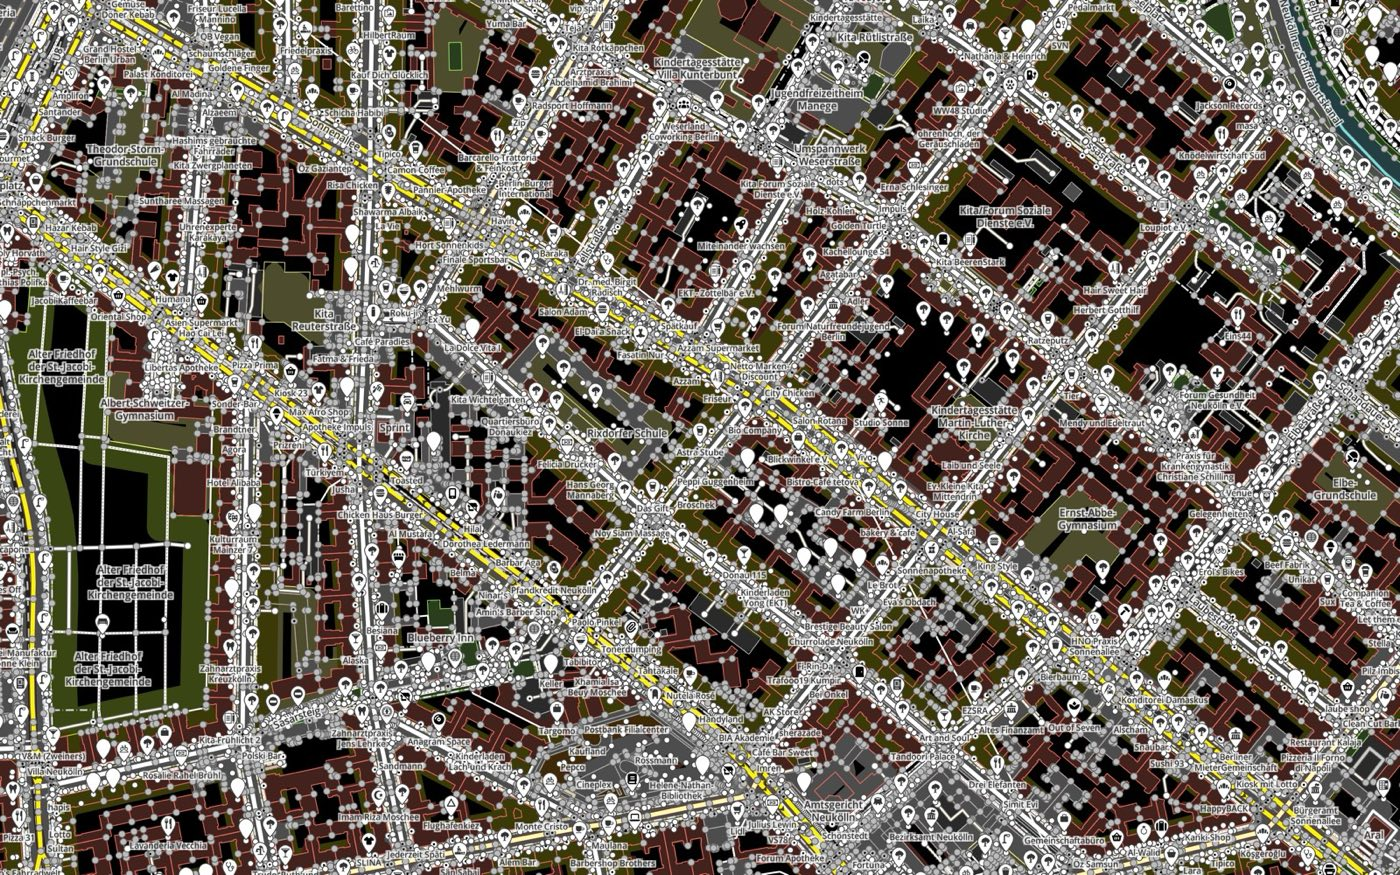
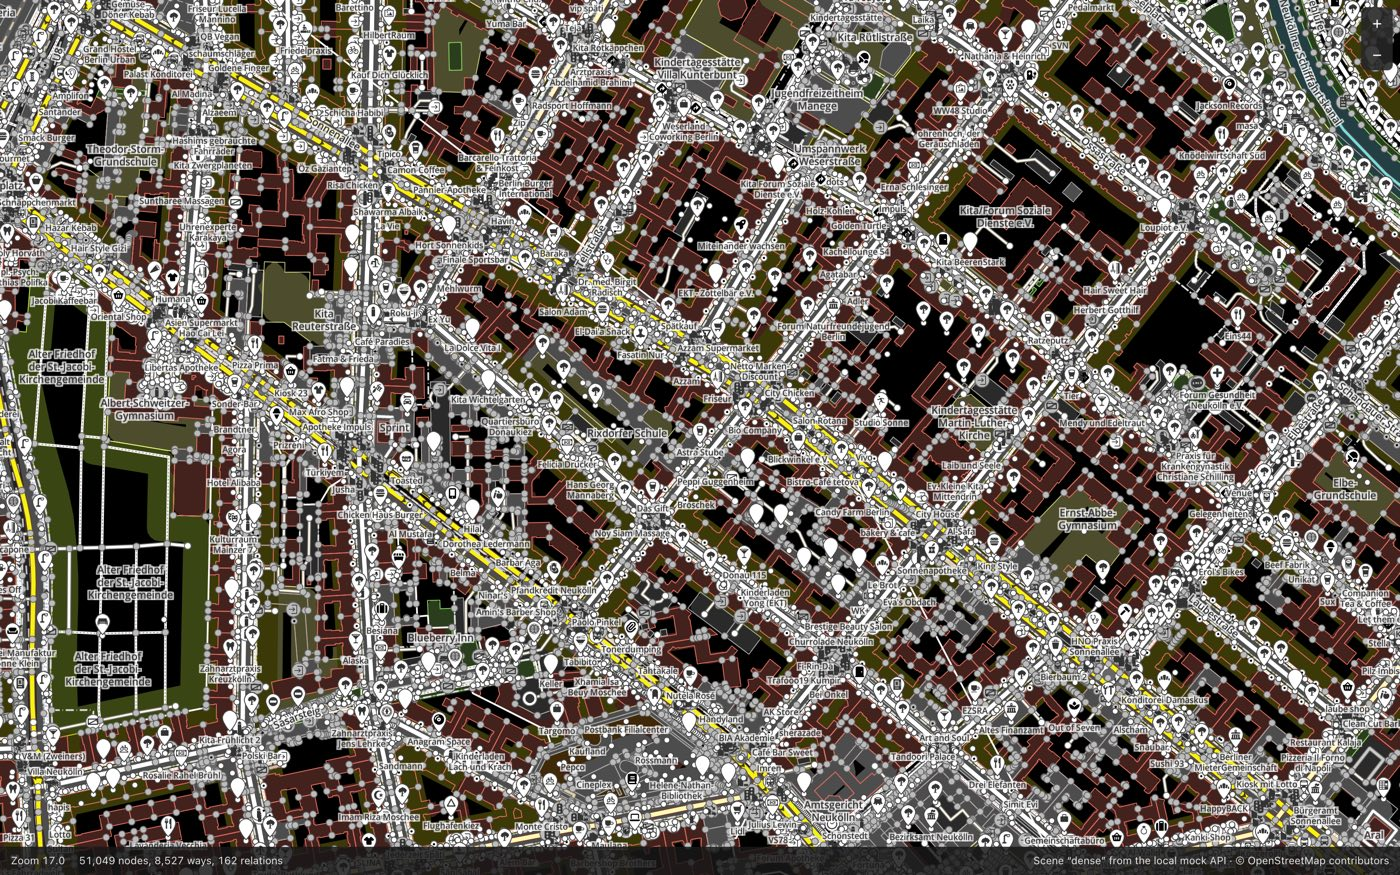
Report: second edition with a fair comparison, vertex drag, Firefox and WebKit
- With validation off in iD and Rapid, Maid still holds 60 fps everywhere; iD drops to 13 to 30 and Rapid to 32 to 38 when panning or hovering the larger scenes
- Dragging a vertex with the real mouse: Maid and Rapid 59 to 60 fps, iD 13 to 21
- Maid behaves the same in Firefox and WebKit; iD and Rapid are slower in Firefox, Rapid did not load in Playwright's WebKit
- Names the remaining weak spot plainly: the wait for the final picture when new data arrives, worst after zooming out, and the next experiment for it

diff --git a/docs/iteration-1/report.md b/docs/iteration-1/report.md
@@ -1,16 +1,19 @@
 # Iteration 1: can Maid render OSM data with MapLibre?
 
-Date: 2026-10-10. Run on one machine (Apple M4, Chrome 154 headless with GPU, 1600×1000 at 2x). Full tables and all screenshots: `reports/2026-10-10-12-34-main/report.html` (generated, not in git; rebuild with `bun run bench` and `bun run bench-report`).
+Second edition, 2026-10-10 (late). The first edition compared Maid with iD and Rapid as they ship. This one switches off validation in iD and Rapid so that all three only render, adds a vertex drag with the real mouse, includes the speed work done since, and adds Firefox and WebKit.
+
+Run on one machine (Apple M4, Chrome 154 headless with GPU, 1600×1000 at 2x). The machine was under other load during the runs (another app at 100% of a core), which widens the spread; all three editors ran interleaved, so they shared it. Full tables and all screenshots: `reports/2026-10-10-21-13-final/report.html` (generated, not in git).
 
 ## Answer
 
-**Yes, this is a feasible path.** In this test MapLibre drew the same OSM data in iD's look and stayed at 60 frames per second on every scene and scenario, where iD and Rapid dropped to 20 to 40 while panning the two larger scenes.
+**Yes, this is a feasible path, and the case got stronger.** With validation off in iD and Rapid, Maid still holds 60 frames per second in every scenario, including dragging a vertex, while iD drops to 13 to 30 and Rapid to 32 to 38 when panning or hovering on the larger scenes. Maid also loads the dense scene fastest.
 
-The answer has three limits you should weigh:
+What you should weigh:
 
-1. **Maid does much less than the other two.** It is a renderer with hover and select. iD and Rapid also run validation, presets and an inspector. The frame-rate gap is large enough that I do not expect this to turn the result around, but it was not measured.
-2. **Maid is slower than Rapid at reaching the final picture after a zoom**: 0.4 to 1.5 s against 0.1 to 0.3 s. The map stays smooth and correct in geometry meanwhile. Part of the wait is cosmetic (a 150 ms label fade and camera easing), part is tiles being cut for a new zoom level.
-3. **The thresholds from the plan are not all met as written.** "Better than iD on every scenario" fails on two measurements (below). You never confirmed the thresholds; I would not treat the two misses as blockers.
+1. **Maid's weak spot is the wait for the final picture when new data arrives**, most visibly after zooming out: 1.1 to 2.3 s on the larger scenes, against 0.8 s for iD and 0.2 to 0.3 s for Rapid. The map stays smooth during that time. The cause is structural: every arrival of data re-tiles the whole source. It is the first thing to fix next, and there is a concrete idea for it (below).
+2. **Rapid is as smooth as Maid when dragging a vertex** (59 fps). Maid's advantage over Rapid is in panning and hovering, and in memory; its advantage over iD is everywhere except single-hover latency.
+3. **Maid is still not a full editor.** It now has an inspector, tag editing and vertex dragging, but no undo, no saving, no presets form, no relations editing.
+4. **The thresholds from the plan were never confirmed.** Checked against them, two are still not met as written (below).
 
 ## Look
 
@@ -42,98 +45,135 @@ Core subset, item by item:
 | Buildings, landuse, water: outline | Comparable | |
 | Partial fill (iD's default) | Close | Built as an inward-offset line whose width is capped by the area's size. It cannot be clipped to the area, so very irregular shapes get an uneven band |
 | Points with preset icons | Comparable where a pin is shown | Density rule differs on purpose. Preset matching is simplified |
-| Vertices | Partly | Dots for tagged, shared and end vertices. No icons on tagged vertices yet, which iD and Rapid show |
+| Vertices | Comparable | Dots for tagged, shared and end vertices; tagged vertices with a preset show the disc with its icon from zoom 17 on. Not compared one by one with iD |
 | Labels | Present | Many more labels than iD (every named point). Placement differs. Fonts for Cyrillic and other scripts are missing |
 | Oneway arrows | Present | Not compared in detail |
-| Hover and select halo | Comparable | A selected way does not show all its shape points in the default mode |
+| Hover and select halo | Comparable | A selected way shows its shape points. No midpoints |
 | Not built | | Fill patterns, sided markers (cliffs, kerbs), turn restrictions, midpoints, wireframe mode |
 
 None of the gaps looks like something MapLibre cannot do, with one exception to watch: iD interleaves casing and stroke per `layer` value, which costs MapLibre one layer group per value.
 
 ## Speed
 
-Medians of three runs. Lower is better unless noted. Bold marks the best of the three.
+Medians of three runs, validation off in iD and Rapid. Lower is better unless noted. Bold marks the best of the three.
 
 ### Loading: from opening the page until the picture is complete (ms)
 
-| Scene | Maid | iD | Rapid | iD without hiding |
-| --- | ---: | ---: | ---: | ---: |
-| small (11k nodes loaded) | **507** | 1284 | 1461 | 1597 |
-| medium (39k) | **1516** | 2016 | 3161 | 3041 |
-| dense (51k) | 2536 | 2677 | 4786 | 3659 |
+| Scene | Maid | iD | Rapid |
+| --- | ---: | ---: | ---: |
+| small (11k nodes loaded) | **1094** | 1483 | 2026 |
+| medium (39k) | 2325 | **2240** | 3797 |
+| dense (51k) | **2019** | 2674 | 3812 |
 
-On the dense scene Maid and iD are equal within the spread (2453 to 2720 against 2542 to 3380). 750 ms of every iD load is its redraw throttle. Rapid loads a larger area around the view (53k nodes instead of 39k in the medium scene).
+Maid's runs spread widely on the small and medium scenes (797 to 1462 ms and 1849 to 2569 ms), so Maid and iD are equal there within the noise. On the dense scene Maid is ahead in all three runs. iD draws less than the other two: it hides buildings and points on the larger scenes. Rapid loads a larger area around the view.
 
-### Panning over loaded data, with a real mouse drag
+### Panning with a real mouse drag
 
-| | Maid | iD | Rapid | iD without hiding |
-| --- | ---: | ---: | ---: | ---: |
-| Frames per second, medium | **59.6** | 29.3 | 38.4 | 2.8 |
-| Frames per second, dense | **59.6** | 21.6 | 30.3 | 3.2 |
-| Worst frame, medium (ms) | **16.8** | 367 | 50 | 1525 |
-| Worst frame, dense (ms) | **16.8** | 1000 | 83 | 2333 |
-| Main-thread work per second, dense (ms) | **354** | 904 | 923 | 994 |
+| | Maid | iD | Rapid |
+| --- | ---: | ---: | ---: |
+| Frames per second over loaded data, medium | **59.7** | 30.4 | 36.0 |
+| Frames per second over loaded data, dense | **59.8** | 22.8 | 36.2 |
+| Worst frame, medium (ms) | **17** | 467 | 67 |
+| Worst frame, dense (ms) | **17** | 767 | 67 |
+| Into new data: worst frame, dense (ms) | **17** | 617 | 50 |
+| Into new data: until the picture is final, medium (ms) | **279** | 1554 | 650 |
+| Into new data: until the picture is final, dense (ms) | 330 | 1670 | **83** |
 
-On the small scene all three hold about 60. Panning into data that is not loaded yet gives the same picture: Maid's worst frame stays at one frame, iD has frames of 417 ms (medium) and 733 ms (dense), Rapid 117 and 67 ms.
-
-iD and Rapid move a stale picture while you drag and redraw it afterwards. iD's long frames are those redraws. Maid redraws the real data on every frame.
+iD and Rapid move a stale picture while you drag and redraw it now and then; iD's long frames are those redraws. Maid redraws the real data on every frame.
 
 ### Zooming with the mouse wheel, two levels in and back
 
 | | Maid | iD | Rapid |
 | --- | ---: | ---: | ---: |
-| Worst frame zooming in, medium (ms) | **16.8** | 433 | 100 |
-| Worst frame zooming in, dense (ms) | **83** | 1333 | 500 |
-| Until the picture is final after zooming in, medium (ms) | 540 | 828 | **133** |
-| Until final after zooming in, dense (ms) | 567 | 1428 | **268** |
-| Until final after zooming out, dense (ms) | 1467 | 811 | **134** |
+| Worst frame zooming in, medium (ms) | **50** | 450 | 100 |
+| Worst frame zooming in, dense (ms) | **67** | 1033 | 333 |
+| Until final after zooming in, medium (ms) | 445 | 896 | **250** |
+| Until final after zooming out, medium (ms) | 1058 | 781 | **163** |
+| Until final after zooming out, dense (ms) | 2291 | 814 | **301** |
 
-This is Maid's weak spot. After a zoom MapLibre cuts new tiles in its worker and places pins and labels again. During that time the map is smooth and shows the previous tiles scaled, so nothing is wrong on screen, but the final picture comes later than in Rapid, and after zooming out on the dense scene also later than in iD.
+Zooming out is where Maid is worst. The wheel overshoots, the view grows, and new OSM tiles are fetched; when they arrive Maid re-tiles all four sources, twice. See "The remaining weak spot".
 
 ### Hover and select
 
 | | Maid | iD | Rapid |
 | --- | ---: | ---: | ---: |
-| Pointer move to highlight, dense (ms) | 8.7 | **1.1** | 67 |
-| Frames per second while sweeping the pointer, medium | **59.5** | 13.1 | 39.9 |
-| Frames per second while sweeping, dense | **59.5** | 6.0 | 17.6 |
-| Select a way until drawn, medium (ms) | **31** | 362 | 66 |
-| Select a way until drawn, dense (ms) | **30** | 1231 | 122 |
+| Pointer move to highlight, medium (ms) | 12.8 | **4.2** | 38.4 |
+| Pointer move to highlight, dense (ms) | **11.7** | 26.0 | 51.7 |
+| Frames per second while sweeping the pointer, medium | **59.5** | 12.2 | 38.2 |
+| Frames per second while sweeping, dense | **59.5** | 6.5 | 31.8 |
+| Select a way until drawn, medium (ms) | **31** | 408 | 69 |
+| Select a way until drawn, dense (ms) | **31** | 774 | 73 |
 
-iD highlights a single feature faster than Maid (both under one frame), but moving the pointer across a dense map brings it down to 6 frames per second.
+Maid's select now includes opening its inspector.
+
+### Dragging a vertex with the real mouse
+
+A road junction is pressed and moved in a small circle for two seconds, one zoom level closer than the other scenarios. The benchmark checks that the node really moved in each editor's data.
+
+| | Maid | iD | Rapid |
+| --- | ---: | ---: | ---: |
+| Frames per second, medium | **60** | 21 | 59 |
+| Frames per second, dense | **60** | 13 | 59 |
+| Worst frame, medium (ms) | **17** | 150 | **17** |
+| Worst frame, dense (ms) | **17** | 317 | **17** |
+| Until final after release, medium (ms) | 265 | **0** | 46 |
+| Until final after release, dense (ms) | 281 | **11** | 18 |
+
+Maid and Rapid are equally smooth; iD is not. After release Maid needs about 0.3 s to write the moved features back into its big sources. The picture is already correct during that time, because the moved features are drawn from a small separate source ([ADR 0003](../adr/0003-edit-source-for-changing-features.md)).
+
+![Maid after the drag](img/medium-drag-maid.jpg)
 
 ### Memory after a run (JS heap, MB)
 
 | Scene | Maid | iD | Rapid |
 | --- | ---: | ---: | ---: |
-| medium | **78** | 127 | 457 |
-| dense | **91** | 168 | 583 |
+| medium | **68** | 126 | 361 |
+| dense | **67** | 161 | 476 |
 
 GPU memory is not included; it cannot be read this way.
 
-### Changing data: dragging a vertex (Maid only)
+### Firefox and WebKit
 
-One node of a road moved 120 times on the dense scene; time from the change until it is on screen. One run per variant.
+Playwright's builds of Firefox 155 and WebKit 26.6, medium scene, two runs each. Main-thread work and heap cannot be measured there.
 
-| Approach | Median | p95 | Changes per second |
+| | Maid | iD | Rapid |
 | --- | ---: | ---: | ---: |
-| Re-send the whole source (`setData`) | 599 ms | 1051 ms | 2 |
-| Update the feature in the big source (`updateData`) | 166 to 317 ms | 232 to 563 ms | 3 to 6 |
-| **Small edit source, original hidden by feature state** | **17 ms** | **49 ms** | **44** |
+| Firefox: frames per second while panning | **59.6** | 9.2 | 12.6 |
+| Firefox: frames per second while dragging a vertex | **60** | 8 | 30 |
+| Firefox: load until complete (ms) | **2237** | 2944 | 5012 |
+| WebKit: frames per second while panning | **59.2** | 14.8 | did not run |
+| WebKit: frames per second while dragging a vertex | **59** | 4.5 | did not run |
+| WebKit: load until complete (ms) | 2942 | **2698** | did not run |
 
-This is the most important finding for editing. The obvious way is too slow, because MapLibre rebuilds a source's tiles on every change. Moving the features that are being changed into a small twin source brings it to one frame. See [ADR 0003](../adr/0003-edit-source-for-changing-features.md). iD and Rapid were not measured on this scenario.
+Maid behaves the same in all three browsers. iD and Rapid are slower in Firefox than in Chrome. Rapid did not get past loading in Playwright's WebKit ("pattern textures not loaded"); that may be this WebKit build or our host page, and says nothing certain about Safari.
+
+### Does validation explain iD's and Rapid's numbers?
+
+No. Switching it off changed little: on the dense scene iD panned at 21.6 fps with it and 22.8 without, Rapid at 30.3 and 36.2. Their frame rates are set by drawing.
 
 ## Against the thresholds from the plan
 
 | Threshold (proposed, never confirmed) | Result |
 | --- | --- |
 | Look: every core item comparable or with a documented gap | Met. Gaps are listed above; none is a known dead end |
-| Better than iD on every scenario in medium and dense: load | Met on medium. Equal on dense |
-| ... settle time after a camera move | **Not met.** After zooming out on dense Maid needs 1467 ms, iD 811 ms. In the other camera scenarios Maid is equal or better once iD's redraw at the end of a gesture is counted |
-| ... hover latency | **Not met as written.** iD 1.1 ms, Maid 8.7 ms. Both are within one frame, and iD collapses to 6 fps when the pointer keeps moving |
-| p95 frame time within 1.25 times Rapid's on dense | Met. Maid 16.7 ms, Rapid 67 ms |
-| Settle time not worse than Rapid's | **Not met.** See zooming |
-| A changed node on screen within 50 ms | Met with the edit source (median 17 ms, p95 49 ms, one run) |
+| Better than iD on every scenario in medium and dense: load | Met on dense. Equal within noise on medium |
+| ... settle time after a camera move | **Not met after zooming out**: 1058 and 2291 ms against iD's 781 and 814 ms. Met when panning into new data and after zooming in |
+| ... hover latency | Met on dense (11.7 against 26 ms). Not met on medium (12.8 against 4.2 ms); both are within one frame |
+| p95 frame time within 1.25 times Rapid's on dense | Met. Maid 16.8 ms, Rapid 50 ms |
+| Settle time not worse than Rapid's | **Not met.** Rapid reaches the final picture sooner in most cases |
+| A changed node on screen within 50 ms | Met: 60 fps during a real drag on every scene, so each step is on screen within a frame |
+
+## The remaining weak spot
+
+A trace of what Maid waits for shows the pattern behind every slow "until final" number: new OSM data arrives, each of the four sources gets an update, and MapLibre re-tiles the **whole** source and rebuilds every visible tile, although only a strip at the edge is new. iD and Rapid only draw what is new.
+
+What was done about it tonight, with measurements in the decision records:
+
+- MapLibre ran on one worker thread; Maid now starts four. Final picture after panning into new data on the dense scene: about 0.8 s instead of 1.5 s ([ADR 0007](../adr/0007-workers-and-batched-updates.md)). In the full run it is 330 ms.
+- Tiles that arrive together go in as one update.
+- MapLibre held the map in "zooming" for a fixed 200 ms after a wheel zoom; patched to 40 ms ([ADR 0006](../adr/0006-wheel-zoom-finish-delay.md)).
+
+What is left, and the idea for it: **split the sources by area**. If each source holds the data of one block of OSM tiles, new data creates a new source and old sources are never re-tiled. The cost is more layers (one set per block in view), which has to be measured. This is the next experiment.
 
 ## What I explored and changed along the way
 
@@ -148,6 +188,10 @@ Each of these was measured; the numbers are in the decision records.
 | Hover through feature state instead of a highlight source | Highlight after 7 ms instead of 23 ms |
 | Edit source for changing features | 17 ms instead of 166 to 600 ms per change |
 | Markers created before their features arrive | Images added later did not appear in tiles that were already laid out |
+| Four MapLibre workers instead of one | Final picture after panning into new data about twice as fast |
+| MapLibre's fixed 200 ms after a wheel zoom, patched to 40 ms | Camera at rest 240 ms after the last wheel event instead of 400 ms |
+| Validation off in iD and Rapid | Changed their numbers little |
+| Source zoom limit 15 to 19, pins and labels off | No effect on the wait after a zoom |
 
 ### Where the wait after a zoom comes from
 
@@ -162,17 +206,18 @@ Measured separately on the dense scene, jumping two zoom levels in and back five
 
 So the zoom limit of the sources does not matter, and neither do pins and labels as such. About 150 ms of every wait is the label fade, which Maid counts because MapLibre only reports "idle" when it is over. Tiles of a zoom level that was visited before are ready within a frame or two.
 
-The benchmark's larger numbers (0.4 to 1.5 s) come on top of that from two things this test leaves out: MapLibre eases the camera for a moment after the last wheel event, and tiles for a zoom level are cut the first time it is shown. Both are tunable, and neither blocks the map. I left the defaults as they are: turning the fade off makes MapLibre place symbols on every frame, which cost 990 ms of main-thread work per second in an earlier measurement.
+This table is from before the wheel-zoom patch. A second script (`bun tools/bench/wheel-zoom.ts`) later split the wait after a real wheel zoom: 200 ms of camera easing, then a fixed 200 ms in which MapLibre still counts the map as zooming, then the fade. The fixed part is now patched down to 40 ms. The fade stays: turning it off makes MapLibre place symbols on every frame, which cost 990 ms of main-thread work per second in an earlier measurement.
 
 ## How far to trust the numbers
 
-- **Unequal work.** Maid has no validator, no preset or tag UI, no undo history. iD and Rapid run their validators in the background after data arrives (Rapid for 5 to 25 s on the larger scenes), which adds to their main-thread load during the later scenarios. The comparison is "renderer plus minimal engine" against complete editors.
+- **Unequal work, less than before.** iD and Rapid now run without validation. They still carry a full UI, undo history and presets; Maid has an inspector with tag editing and nothing else.
 - **One machine, a fast one.** Apple M4 with GPU. Slower machines and integrated graphics were not tested. That matters most for Maid, because MapLibre leans on the GPU and on worker threads.
-- **Headless Chrome only.** No Firefox, no Safari, no touch devices.
+- **Headless browsers.** Chrome for the main run, Playwright's Firefox and WebKit for a smaller one. No real Safari, no touch devices.
+- **Background load.** Another application used a full core during the runs. Editors ran interleaved, so it hit all three, but single cells can be off; the ranges in the generated report show it.
 - **Frame rate is capped at 60.** Maid sits at the cap in every scenario, so the tables do not show how much headroom it has. Main-thread work per second is the better hint: 180 to 350 ms out of 1000.
 - **"Final picture" is defined per editor.** The definitions are in `tools/refs/id/NOTES.md`, `tools/refs/rapid/NOTES.md` and `packages/renderer/src/engine.ts`. Maid's includes the label fade; iD's redraw at the end of a drag happens inside the gesture and shows up as a long frame, not as settle time.
-- **Three repeats** for the main run, two for the variant runs, one for the edit test and the configuration comparisons.
-- **iD without hiding** failed one of two runs on the dense scene (did not finish in five minutes), so that column has one run there.
+- **Three repeats** for the main run, two for Firefox and WebKit, five for the worker and batching comparison, one for most other configuration comparisons. One iD run of an earlier full run did not finish in five minutes; the final run had no failures.
+- **iD without hiding** (drawing everything) was only measured in the first edition: about 3 fps while panning the larger scenes.
 - **Both reference editors ran without the name-suggestion-index** and without background imagery, with the sidebar collapsed.
 - **Not examined:** geometry precision at very high zoom (OSM zoom 22 and above, where MapLibre overzooms tiles), relations beyond simple multipolygons, scenes larger than about 60k loaded nodes, low zoom levels.
 
@@ -180,24 +225,20 @@ No request left the machine in any run. Every non-localhost request is blocked a
 
 ## What I recommend
 
-Go ahead with MapLibre, and start iteration 2 with the two things that carry the most risk:
+Go ahead with MapLibre. Next, in this order:
 
-1. **Real editing on the edit-source pattern**: drag a vertex, add a node, move a way, with undo. This is where the renderer and the data model meet, and where the store decision is due (evaluate `@osm-editor-kit/osm-data` first, see [ADR 0005](../adr/0005-own-store-for-the-proof-of-concept.md)).
-2. **Time to final picture after zoom**: decide what counts as final (the label fade is cosmetic), shorten or drop the wheel easing, and cut tiles for the neighbouring zoom levels ahead of time. Check geometry precision at high zoom along the way.
-
-Before building on it further:
-
-- Report the `updateData` problem to MapLibre with a minimal reproduction.
-- Run the benchmark on a weaker machine and in Firefox and Safari.
-- Add a fair background load to Maid (a validator pass) so the comparison is like for like.
+1. **Split the sources by area** and measure it. This targets the one place where Maid is behind both other editors.
+2. **Real editing on the edit-source pattern, with undo.** Port iD's graph and history as the data layer ([extensibility plan](../extensibility-plan.md)); the current store cannot undo.
+3. **Send the MapLibre report** ([draft](../upstream/maplibre-updatedata-inconsistent-tiles.md)) once you have read it. Nothing has been posted.
 
 ## Reproduce
 
 ```bash
 bun install
 bun run refs-setup      # clones and builds iD and Rapid at their pins
-bun run bench --repeat 3 --label main
-bun run bench --editor id --repeat 2 --label id-cull0 --variant "no auto-hide" --id-query "cull=0"
+bun run bench --repeat 3 --label final
+bun run bench --browser firefox --scene medium --repeat 2 --label firefox
+bun run bench --editor id --repeat 2 --label id-cull0 --variant "no auto-hide" --id-query "cull=0"   # iD drawing everything
 bun run bench-report <run-id> [<run-id> ...]
 bun run compare         # the three editors side by side on http://localhost:5174
 ```

diff --git a/docs/iteration-1/steps.md b/docs/iteration-1/steps.md
@@ -8,15 +8,15 @@ The proof of concept was built in one pass to get to an answer, not step by step
 
 | Milestone | State | Not done |
 | --- | --- | --- |
-| 0 Foundation | Partly | Lint and format (oxlint, oxfmt), CI, Dependabot, license file, `.claude/settings.json`, glossary. `check` is type-check plus unit tests |
+| 0 Foundation | Partly | Lint and format (oxlint, oxfmt), CI, Dependabot, license file, `.claude/settings.json`, glossary. `check` is type-check plus unit tests. The app now uses Tailwind and nuqs |
 | 1 Fixtures and mock API | Done | Synthetic generator (1.2). The network guard lives in the benchmark runner, not in a shared Playwright fixture (1.5) |
 | 2 Maid draws OSM data | Done | `osm-data` was not evaluated ([ADR 0005](../adr/0005-own-store-for-the-proof-of-concept.md)). Live mode is a URL switch without UI, cache or test (2.6) |
 | 3 iD and Rapid under automation | Done | Pins are per editor in `tools/refs/*/pin.json`. Adapters live in the host pages, so there are no separate driver files (3.4 to 3.7) |
 | 4 Benchmark and report | Done | Zod schema for results, CDP traces, check of the frame-cap flags, CI smoke (4.6). No run on plain geometry before styling (4.5) |
-| 5 Core style, hover, select | Mostly | Vertex icons, shape points of a selected way, fill patterns, sided markers. The look review is a table in the report, not a per-item screenshot checklist (5.8) |
+| 5 Core style, hover, select | Mostly | Fill patterns, sided markers, midpoints. The look review is a table in the report, not a per-item screenshot checklist (5.8) |
 | 6 Compare page | Works | Opens three windows instead of frames. Camera relay is tested; leading by real pointer input was not verified in the automated test. No scenario replay (6.3) |
-| 7 Renderer experiments | Mostly | deck.gl was not needed and not tried (7.5). iD and Rapid were not measured on data changes |
-| 8 Answer | Draft | The report is written. The thresholds were never confirmed, and the decision is Tobias's (8.3) |
+| 7 Renderer experiments | Mostly | deck.gl was not needed and not tried (7.5). Sources split by area is the open experiment |
+| 8 Answer | Second edition | The report has the fair comparison, the drag scenario, Firefox and WebKit. The thresholds were never confirmed, and the decision is Tobias's (8.3) |
 
 The checkboxes below are left as they were. Tick them when a step is done to the letter.
 
